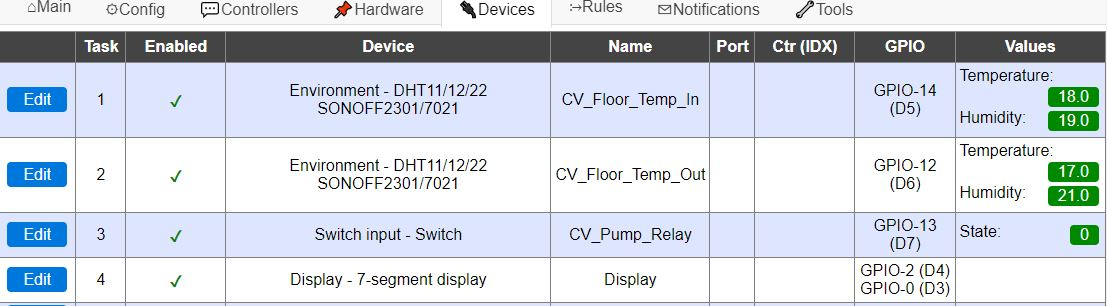
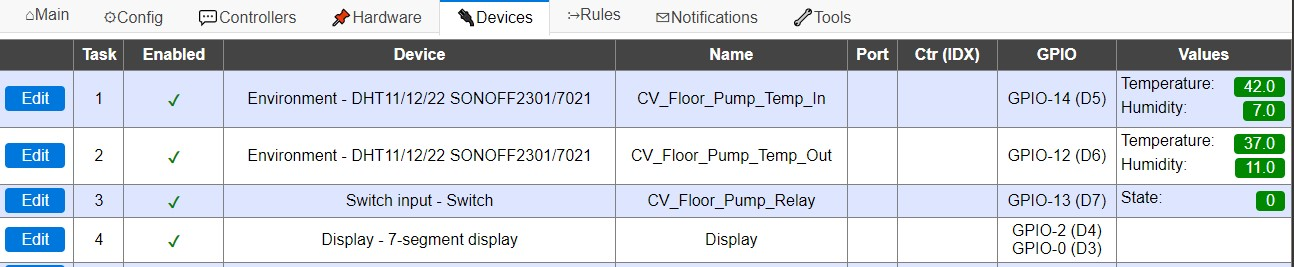
Changed the names of the devices to be more logica

diff --git a/README.md b/README.md
@@ -50,11 +50,11 @@ See the instructions in 'Arduino projects and programming' (not listed here)
 
 ![ESPEasy Devices](Images/ESPEasy_Devices.jpg)
 
-![ESPEasy Devices CV_FloorTempIn](Images/ESPEasy_CV_FloorTempIn.jpg)
+![ESPEasy Devices CV_FloorTempIn](Images/ESPEasy_CV_Floor_Pump_Temp_In.jpg)
 
-![ESPEasy Devices CV_FloorTempOut](Images/ESPEasy_CV_FloorTempOut.jpg)
+![ESPEasy Devices CV_FloorTempOut](Images/ESPEasy_CV_Floor_Pump_Temp_Out.jpg)
 
-![ESPEasy Devices CV_Pump_Relay](Images/ESPEasy_CV_Pump_Relay.jpg)
+![ESPEasy Devices CV_Floor_Pump_Relay](Images/ESPEasy_CV_Floor_Pump_Relay.jpg)
 
 ![ESPEasy Devices ESPEasy_Display](Images/ESPEasy_Display.jpg)
 
@@ -89,7 +89,7 @@ All annotation is stored in the next paragraph to let the #chars be below 2048. 
 on System#Boot do
     gpio,13,0
     
-    Let,1,[CV_Floor_Temp_In#Temperature]*100+[CV_Floor_Temp_Out#Temperature] 
+    Let,1,[CV_Floor_Pump_Temp_In#Temperature]*100+[CV_Floor_Pump_Temp_Out#Temperature] 
      
     7don 
     7db,1
@@ -102,45 +102,46 @@ on Rules#Timer=1 do
     If %systime% > 06:00:00
         If %systime% < 20:00:00
             Publish,ESP05_CV_Floor_Pump/status/insideOfOperationalHours,on
-            Let,1,[CV_Floor_Temp_In#Temperature]*100+[CV_Floor_Temp_Out#Temperature]
-            if [CV_Floor_Temp_In#Temperature] > 45
+            Let,1,[CV_Floor_Pump_Temp_In#Temperature]*100+[CV_Floor_Pump_Temp_Out#Temperature]
+            if [CV_Floor_Pump_Temp_In#Temperature] > 45
                 gpio,13,0
                 Publish,ESP05_CV_Floor_Pump/status/TemperatureTooHigh,on
             endif          
-            if [CV_Floor_Temp_In#Temperature] > 30
+            if [CV_Floor_Pump_Temp_In#Temperature] > 30
                 gpio,13,1
             endif
-            if [CV_Floor_Temp_In#Temperature] < 22
+            if [CV_Floor_Pump_Temp_In#Temperature] < 22
             gpio,13,0
             Publish,ESP05_CV_Floor_Pump/status/TemperatureTooHigh,off
             endif
         endif
+        Publish,ESP05_CV_Floor_Pump/status/insideOfOperationalHours,off
     endif
 
     7dn,[var#1]
  
-    Publish,ESP05_CV_Floor_Pump/status/CV_Floor_Temp_In,[CV_Floor_Temp_In#Temperature]
-    Publish,ESP05_CV_Floor_Pump/status/CV_Floor_Temp_Out,[CV_Floor_Temp_Out#Temperature]
-    Publish,ESP05_CV_Floor_Pump/status/CV_Pump_Relay,[CV_Pump_Relay#State]
+    Publish,ESP05_CV_Floor_Pump/status/CV_Floor_Pump_Temp_In,[CV_Floor_Pump_Temp_In#Temperature]
+    Publish,ESP05_CV_Floor_Pump/status/CV_Floor_Pump_Temp_Out,[CV_Floor_Pump_Temp_Out#Temperature]
+    Publish,ESP05_CV_Floor_Pump/status/CV_Floor_Pump_Relay,[CV_Floor_Pump_Relay#State]
 
     timerSet,1,60
 endon
 
 on Clock#Time=All,20:05 do 
-    if [CV_Floor_Temp_In#Temperature] < 35
+    if [CV_Floor_Pump_Temp_In#Temperature] < 35
         gpio,13,1
-        Publish,ESP05_CV_Floor_Pump/status/CV_Pump_Relay,[CV_Pump_Relay#State]
+        Publish,ESP05_CV_Floor_Pump/status/CV_Floor_Pump_Relay,[CV_Floor_Pump_Relay#State]
     endif
 endon
 
 on Clock#Time=All,20:15 do
     gpio,13,0
-    Publish,ESP05_CV_Floor_Pump/status/CV_Pump_Relay,[CV_Pump_Relay#State]
+    Publish,ESP05_CV_Floor_Pump/status/CV_Floor_Pump_Relay,[CV_Floor_Pump_Relay#State]
 endon
 
 on Clock#Time=All,21:20 do
     gpio,13,0
-    Publish,ESP05_CV_Floor_Pump/status/CV_Pump_Relay,[CV_Pump_Relay#State]
+    Publish,ESP05_CV_Floor_Pump/status/CV_Floor_Pump_Relay,[CV_Floor_Pump_Relay#State]
 endon
 ```
 #### Rules Set 1 including annotation
@@ -150,7 +151,7 @@ on System#Boot do
     gpio,13,0 //set pin 13 low. This is the relay of the CV pump
     
 //store the value in variable1 to be able to be used later. 
-    Let,1,[CV_Floor_Temp_In#Temperature]*100+[CV_Floor_Temp_Out#Temperature] 
+    Let,1,[CV_Floor_Pump_Temp_In#Temperature]*100+[CV_Floor_Pump_Temp_Out#Temperature] 
      
     7don //turn the TM1637 on
     7db,1 //Display the number
@@ -163,35 +164,36 @@ on Rules#Timer=1 do // when timer 1 reaches the end of the cycle do
     If %systime% > 06:00:00        //after time …
         If %systime% < 20:00:00    //before time …
             Publish,ESP05_CV_Floor_Pump/status/insideOfOperationalHours,on    //push to MQTT
-            Let,1,[CV_Floor_Temp_In#Temperature]*100+[CV_Floor_Temp_Out#Temperature] //store the value in variable1 to be able to be used later. 
-            if [CV_Floor_Temp_In#Temperature] > 45 //this is the temperature too high
+            Let,1,[CV_Floor_Pump_Temp_In#Temperature]*100+[CV_Floor_Pump_Temp_Out#Temperature] //store the value in variable1 to be able to be used later. 
+            if [CV_Floor_Pump_Temp_In#Temperature] > 45 //this is the temperature too high
                 gpio,13,0 //turn the relais off
                 Publish,ESP05_CV_Floor_Pump/status/TemperatureTooHigh,on
             endif          
-            if [CV_Floor_Temp_In#Temperature] > 30   //when above .. then on
+            if [CV_Floor_Pump_Temp_In#Temperature] > 30   //when above .. then on
                 gpio,13,1
             endif
-            if [CV_Floor_Temp_In#Temperature] < 22   //when below .. then off
+            if [CV_Floor_Pump_Temp_In#Temperature] < 22   //when below .. then off
             gpio,13,0
             Publish,ESP05_CV_Floor_Pump/status/TemperatureTooHigh,off   // publis to MQTT
             endif
         endif
+        Publish,ESP05_CV_Floor_Pump/status/insideOfOperationalHours,off
     endif
 
     7dn,[var#1]
  
-    Publish,ESP05_CV_Floor_Pump/status/CV_Floor_Temp_In,[CV_Floor_Temp_In#Temperature]
-    Publish,ESP05_CV_Floor_Pump/status/CV_Floor_Temp_Out,[CV_Floor_Temp_Out#Temperature]
-    Publish,ESP05_CV_Floor_Pump/status/CV_Pump_Relay,[CV_Pump_Relay#State]
+    Publish,ESP05_CV_Floor_Pump/status/CV_Floor_Pump_Temp_In,[CV_Floor_Pump_Temp_In#Temperature]
+    Publish,ESP05_CV_Floor_Pump/status/CV_Floor_Pump_Temp_Out,[CV_Floor_Pump_Temp_Out#Temperature]
+    Publish,ESP05_CV_Floor_Pump/status/CV_Floor_Pump_Relay,[CV_Floor_Pump_Relay#State]
 
     timerSet,1,60
 endon
 
 on Clock#Time=All,20:05 do //will run once a day at 20:05 to make sure that the pump will not get stuck
     //this timeslot needs to be outside of the timeslot of the automatic switching based on temperature
-    if [CV_Floor_Temp_In#Temperature] < 35   //when below .. then on. Only run when not too hot
+    if [CV_Floor_Pump_Temp_In#Temperature] < 35   //when below .. then on. Only run when not too hot
         gpio,13,1
-        Publish,ESP05_CV_Floor_Pump/status/CV_Pump_Relay,[CV_Pump_Relay#State]
+        Publish,ESP05_CV_Floor_Pump/status/CV_Floor_Pump_Relay,[CV_Floor_Pump_Relay#State]
     endif
 endon
 
@@ -199,11 +201,11 @@ endon
 //Make sure that there is an off at a defined time outside the automatic switching window to make sure that the pump is off
 on Clock#Time=All,20:15 do //will run once a day at 20:15
     gpio,13,0
-    Publish,ESP05_CV_Floor_Pump/status/CV_Pump_Relay,[CV_Pump_Relay#State]
+    Publish,ESP05_CV_Floor_Pump/status/CV_Floor_Pump_Relay,[CV_Floor_Pump_Relay#State]
 endon
 
 on Clock#Time=All,20:20 do //will run once a day at 20:20 as backup if the previous command did not get set
     gpio,13,0
-    Publish,ESP05_CV_Floor_Pump/status/CV_Pump_Relay,[CV_Pump_Relay#State]
+    Publish,ESP05_CV_Floor_Pump/status/CV_Floor_Pump_Relay,[CV_Floor_Pump_Relay#State]
 endon
 ```
